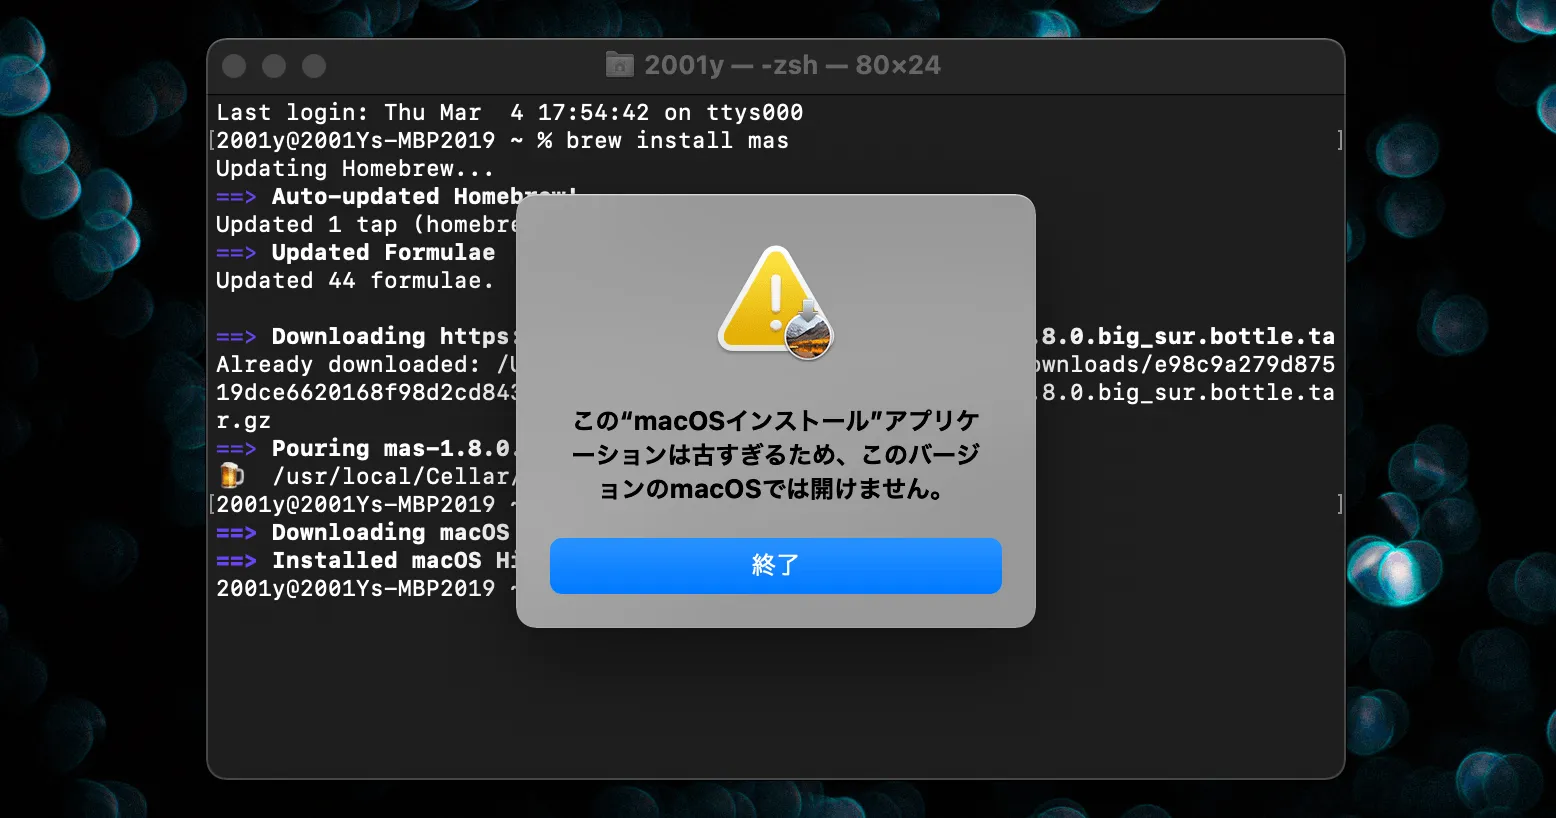
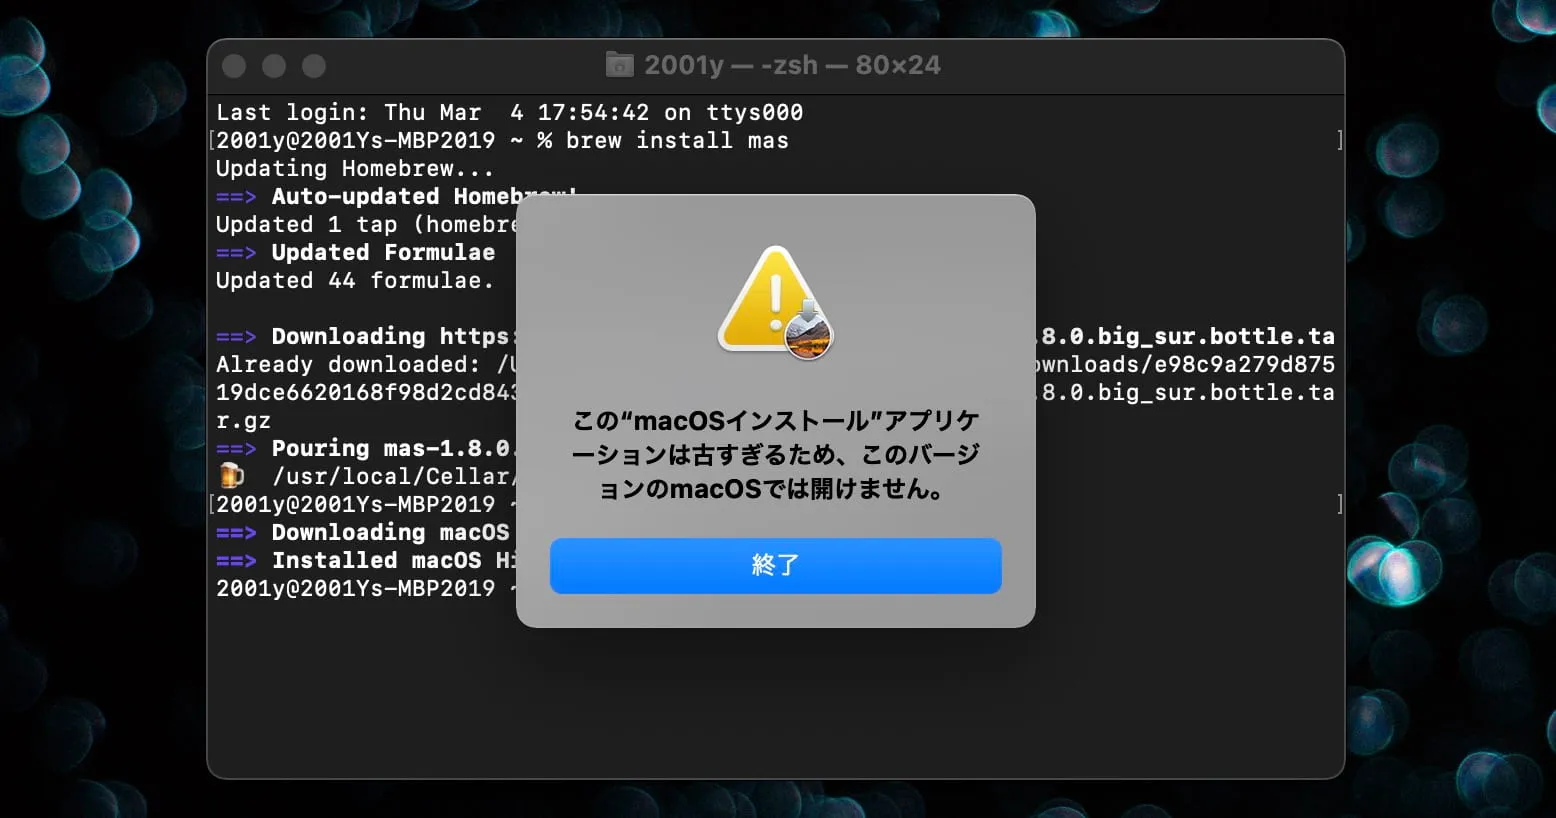
add Post

diff --git a/content/blog/gadget/-mac-command-mas-macOS.md b/content/blog/gadget/-mac-command-mas-macOS.md
@@ -65,7 +65,7 @@ https://apps.apple.com/jp/app/macos-high-sierra/id1246284741
 
 macOSのインストローラーはダウンロードが完了すると自動的にアプリが開くためこのような表示が出ますが、
 
-![](../../../images/mac-command-mas-macOS-3.png)
+![](../../../images/mac-command-mas-macOS-3.jpg)
 
 
 
